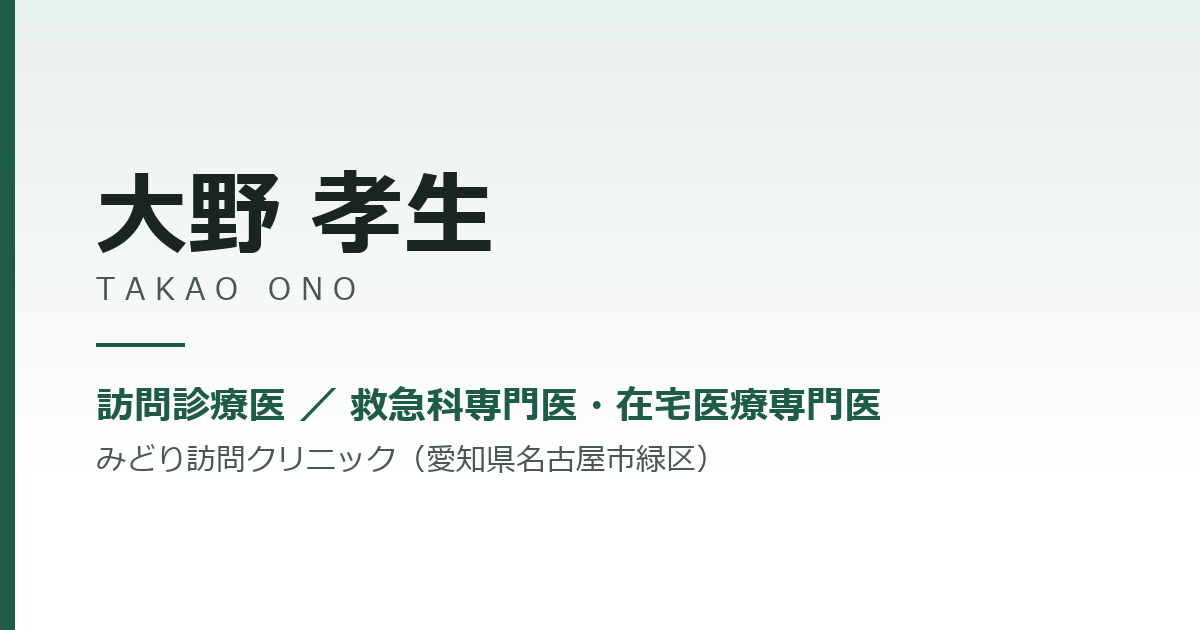
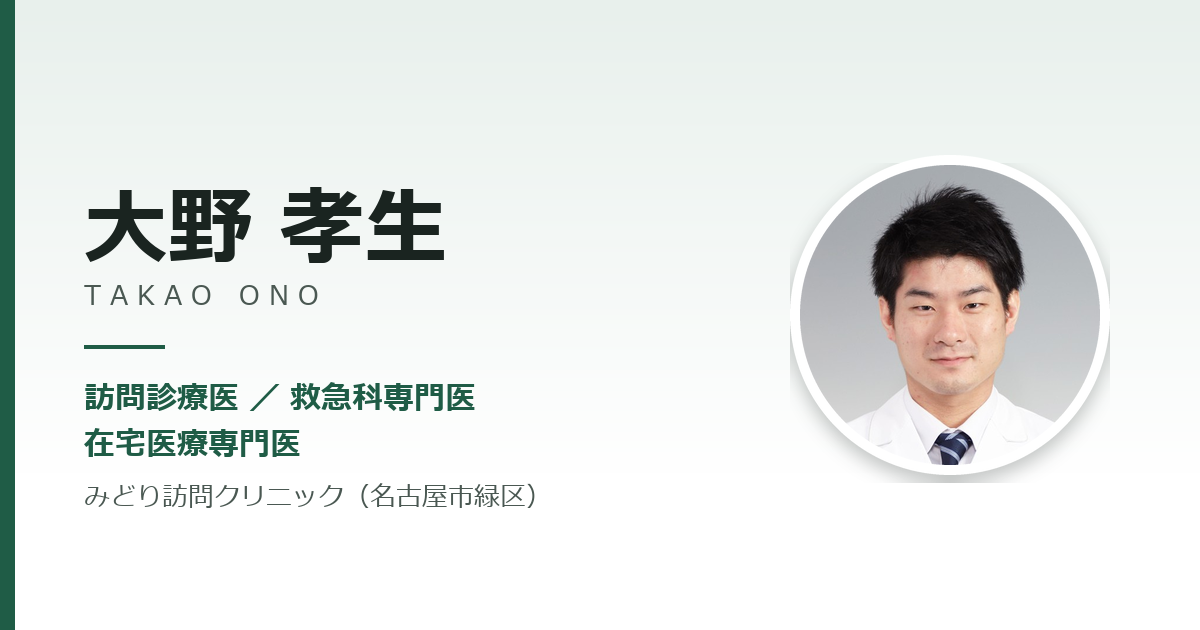
顔写真を追加し、OGP画像を写真入りに差し替え

diff --git a/index.html b/index.html
@@ -98,7 +98,7 @@ img,svg{max-width:100%}
   border:4px solid #fff;
   box-shadow:0 6px 20px rgba(26,36,32,.12);
 }
-.avatar img,.avatar svg{display:block;width:100%;height:100%}
+.avatar img,.avatar svg{display:block;width:100%;height:100%;object-fit:cover}
 
 .name{
   margin:0;
@@ -351,17 +351,11 @@ footer p{margin:0;font-size:12.5px;line-height:1.8;color:var(--ink-soft)}
 <header class="hero">
   <div class="wrap">
     <!--
-      顔写真の差し替え方：下の <div class="avatar"> の中身をまるごと
-        <img src="photo.jpg" alt="大野孝生">
-      に置き換えて、photo.jpg を index.html と同じフォルダに置いてください。
-      正方形（推奨 400×400px 以上）の画像だときれいに丸くトリミングされます。
+      顔写真を差し替えるときは、同じフォルダの photo.jpg を新しい画像で上書きしてください。
+      正方形（推奨 400×400px 以上）だときれいに丸くトリミングされます。
     -->
     <div class="avatar">
-      <svg viewBox="0 0 132 132" role="img" aria-label="大野孝生の顔写真（準備中のプレースホルダー画像）" xmlns="http://www.w3.org/2000/svg">
-        <rect width="132" height="132" fill="#e8f0ec"/>
-        <circle cx="66" cy="50" r="21" fill="#b9cdc3"/>
-        <path d="M18 132c0-26.5 21.5-48 48-48s48 21.5 48 48z" fill="#b9cdc3"/>
-      </svg>
+      <img src="photo.jpg" width="512" height="512" alt="大野孝生" decoding="async">
     </div>
 
     <h1 class="name">大野 孝生</h1>
